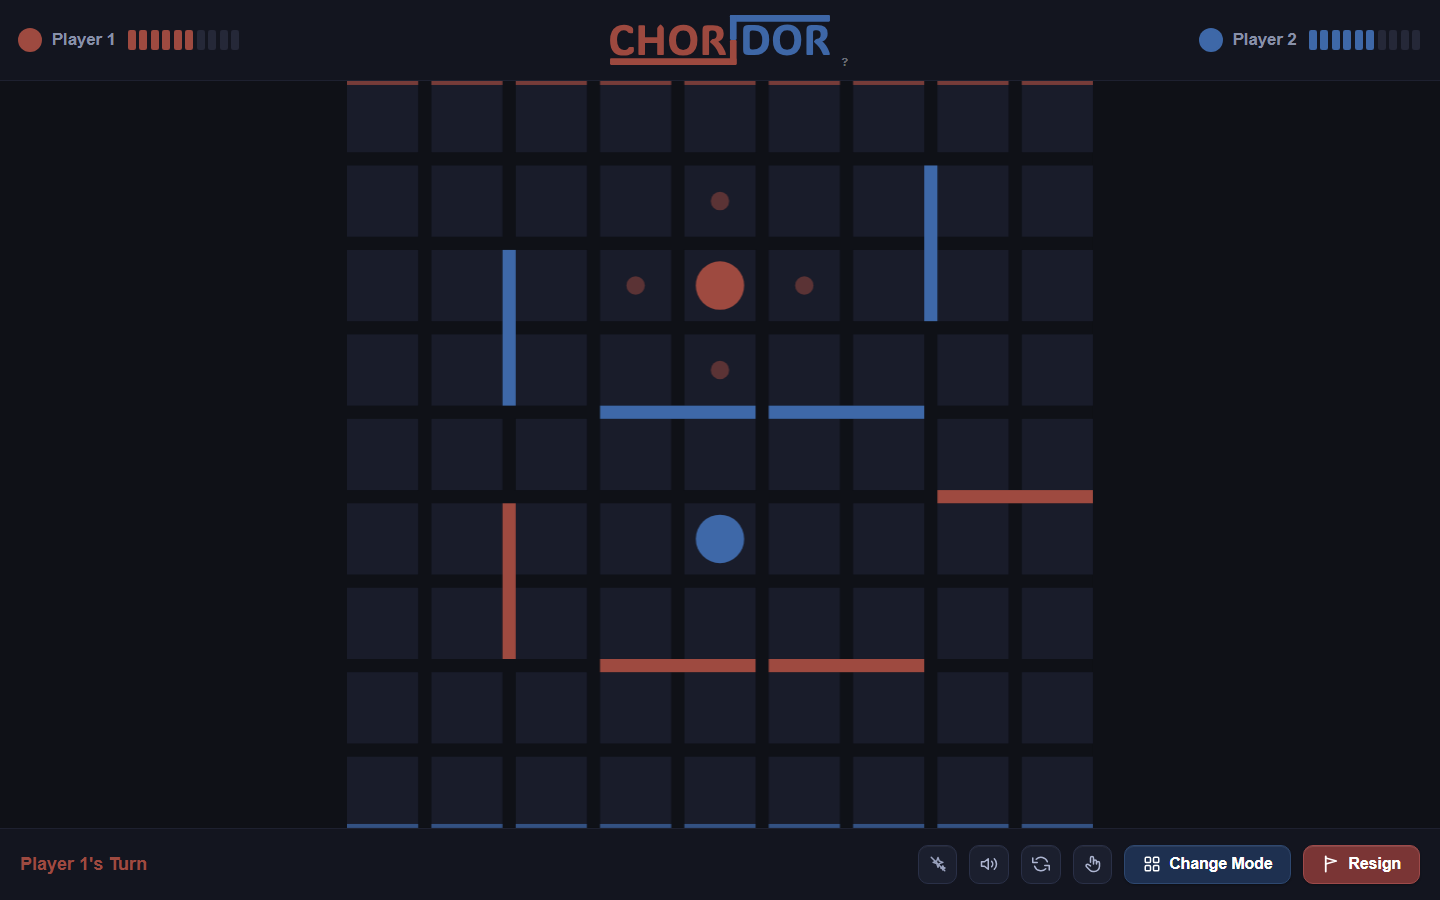
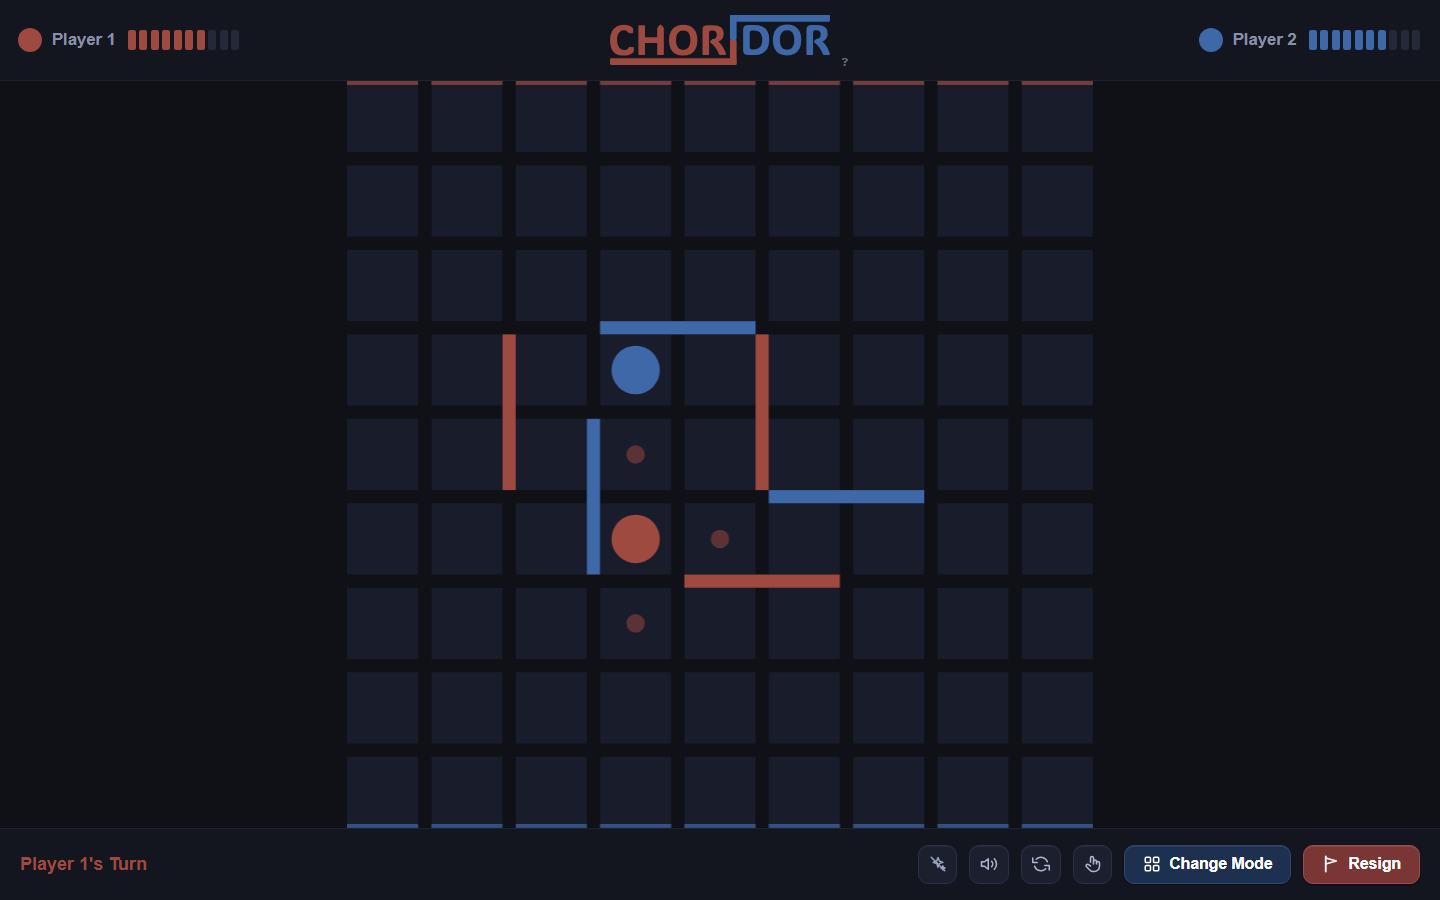
chore: update board/win screenshot script with revised wall layout
Claude-Session: https://claude.ai/code/session_01SW54VoZCCtTj4EPxNEKdX4

diff --git a/.github/scripts/board-screenshot.js b/.github/scripts/board-screenshot.js
@@ -3,32 +3,61 @@ const { chromium } = require('playwright');
 const BASE = 'http://localhost:4321';
 const OUT  = 'docs/screenshots';
 
-// Mid-game state: ~22 moves in, 4 walls placed each, pawns well advanced
-const WALLS = [
-    // p1's walls (indices 0-3)
-    { row: 6, col: 3, orientation: 'H' },
-    { row: 6, col: 5, orientation: 'H' },
-    { row: 5, col: 1, orientation: 'V' },
-    { row: 4, col: 7, orientation: 'H' },
-    // p2's walls (indices 4-7)
-    { row: 3, col: 3, orientation: 'H' },
-    { row: 3, col: 5, orientation: 'H' },
-    { row: 2, col: 1, orientation: 'V' },
-    { row: 1, col: 6, orientation: 'V' },
-];
+// P1 (red) starts at row 8, races to row 0.
+// P2 (blue) starts at row 0, races to row 8.
+// Orange walls = P1's (slow P2's southward advance).
+// Blue walls   = P2's (slow P1's northward advance).
 
-async function injectState(p, pawns, wallCounts, extra) {
-    await p.evaluate(({ pawns, walls, wallCounts, extra }) => {
-        const gs = window.__choridor.gameState;
-        gs.p1Pawn     = pawns.p1;
-        gs.p2Pawn     = pawns.p2;
-        gs.walls      = new Set(walls.map(w => JSON.stringify(w)));
-        gs.wallOwners = new Map(walls.map((w, i) => [JSON.stringify(w), i < 4 ? 'p1' : 'p2']));
+const BOARD = {
+    p1Pawn:     { row: 5, col: 3 },
+    p2Pawn:     { row: 3, col: 3 },
+    p1Walls: [
+        { row: 3, col: 1, orientation: 'V' }, // seals P2's left escape at rows 3-4
+        { row: 5, col: 4, orientation: 'H' }, // preemptive block at P2's future row 5-6
+        { row: 3, col: 4, orientation: 'V' }, // middle of Z shape (red)
+    ],
+    p2Walls: [
+        { row: 2, col: 3, orientation: 'H' }, // horizontal barrier blocking P1 at rows 2-3
+        { row: 4, col: 5, orientation: 'H' }, // blocks P1 from going up via cols 4-5
+        { row: 4, col: 2, orientation: 'V' }, // vertical wall right of both pawns, bottom at row 5 edge
+    ],
+    wallCounts: { p1: 7, p2: 7 },
+};
+
+// Win: continuation of BOARD state. P1 pushed through to row 0 for the win.
+const WIN = {
+    p1Pawn:     { row: 0, col: 3 },
+    p2Pawn:     { row: 5, col: 4 },
+    p1Walls: [
+        { row: 3, col: 1, orientation: 'V' },
+        { row: 5, col: 4, orientation: 'H' },
+        { row: 3, col: 4, orientation: 'V' },
+        { row: 6, col: 3, orientation: 'H' },
+    ],
+    p2Walls: [
+        { row: 2, col: 3, orientation: 'H' },
+        { row: 4, col: 5, orientation: 'H' },
+        { row: 4, col: 2, orientation: 'V' },
+        { row: 1, col: 2, orientation: 'H' },
+    ],
+    wallCounts: { p1: 6, p2: 6 },
+    extra: { movesP1: 16, movesP2: 15 },
+};
+
+async function injectState(p, state) {
+    const allWalls = [...state.p1Walls, ...state.p2Walls];
+    const numP1    = state.p1Walls.length;
+    await p.evaluate(({ p1Pawn, p2Pawn, allWalls, numP1, wallCounts, extra }) => {
+        const gs      = window.__choridor.gameState;
+        gs.p1Pawn     = p1Pawn;
+        gs.p2Pawn     = p2Pawn;
+        gs.walls      = new Set(allWalls.map(w => JSON.stringify(w)));
+        gs.wallOwners = new Map(allWalls.map((w, i) => [JSON.stringify(w), i < numP1 ? 'p1' : 'p2']));
         gs.wallCounts = wallCounts;
         Object.assign(gs, extra || {});
         window.__choridor.updateWallCounts();
         window.__choridor.updateLegalMoves();
-    }, { pawns, walls: WALLS, wallCounts, extra });
+    }, { p1Pawn: state.p1Pawn, p2Pawn: state.p2Pawn, allWalls, numP1, wallCounts: state.wallCounts, extra: state.extra });
 }
 
 async function board(b) {
@@ -39,12 +68,7 @@ async function board(b) {
     await p.waitForTimeout(1500);
     await p.click('#btn-local');
     await p.waitForTimeout(800);
-    // p1 at row 2 (almost there), p2 at row 5; each used 4 walls leaving 6
-    await injectState(p,
-        { p1: { row: 2, col: 4 }, p2: { row: 5, col: 4 } },
-        { p1: 6, p2: 6 },
-        null
-    );
+    await injectState(p, BOARD);
     await p.waitForTimeout(400);
     await p.screenshot({ path: `${OUT}/Board.png` });
     await p.close();
@@ -59,12 +83,7 @@ async function win(b) {
     await p.waitForTimeout(1500);
     await p.click('#btn-local');
     await p.waitForTimeout(800);
-    // p1 crossed the finish line; p2 still at row 4
-    await injectState(p,
-        { p1: { row: 0, col: 4 }, p2: { row: 4, col: 4 } },
-        { p1: 6, p2: 6 },
-        { movesP1: 36, movesP2: 35 }
-    );
+    await injectState(p, WIN);
     await p.waitForTimeout(400);
     await p.evaluate(() => {
         document.getElementById('p1-name').textContent = 'Player 1';